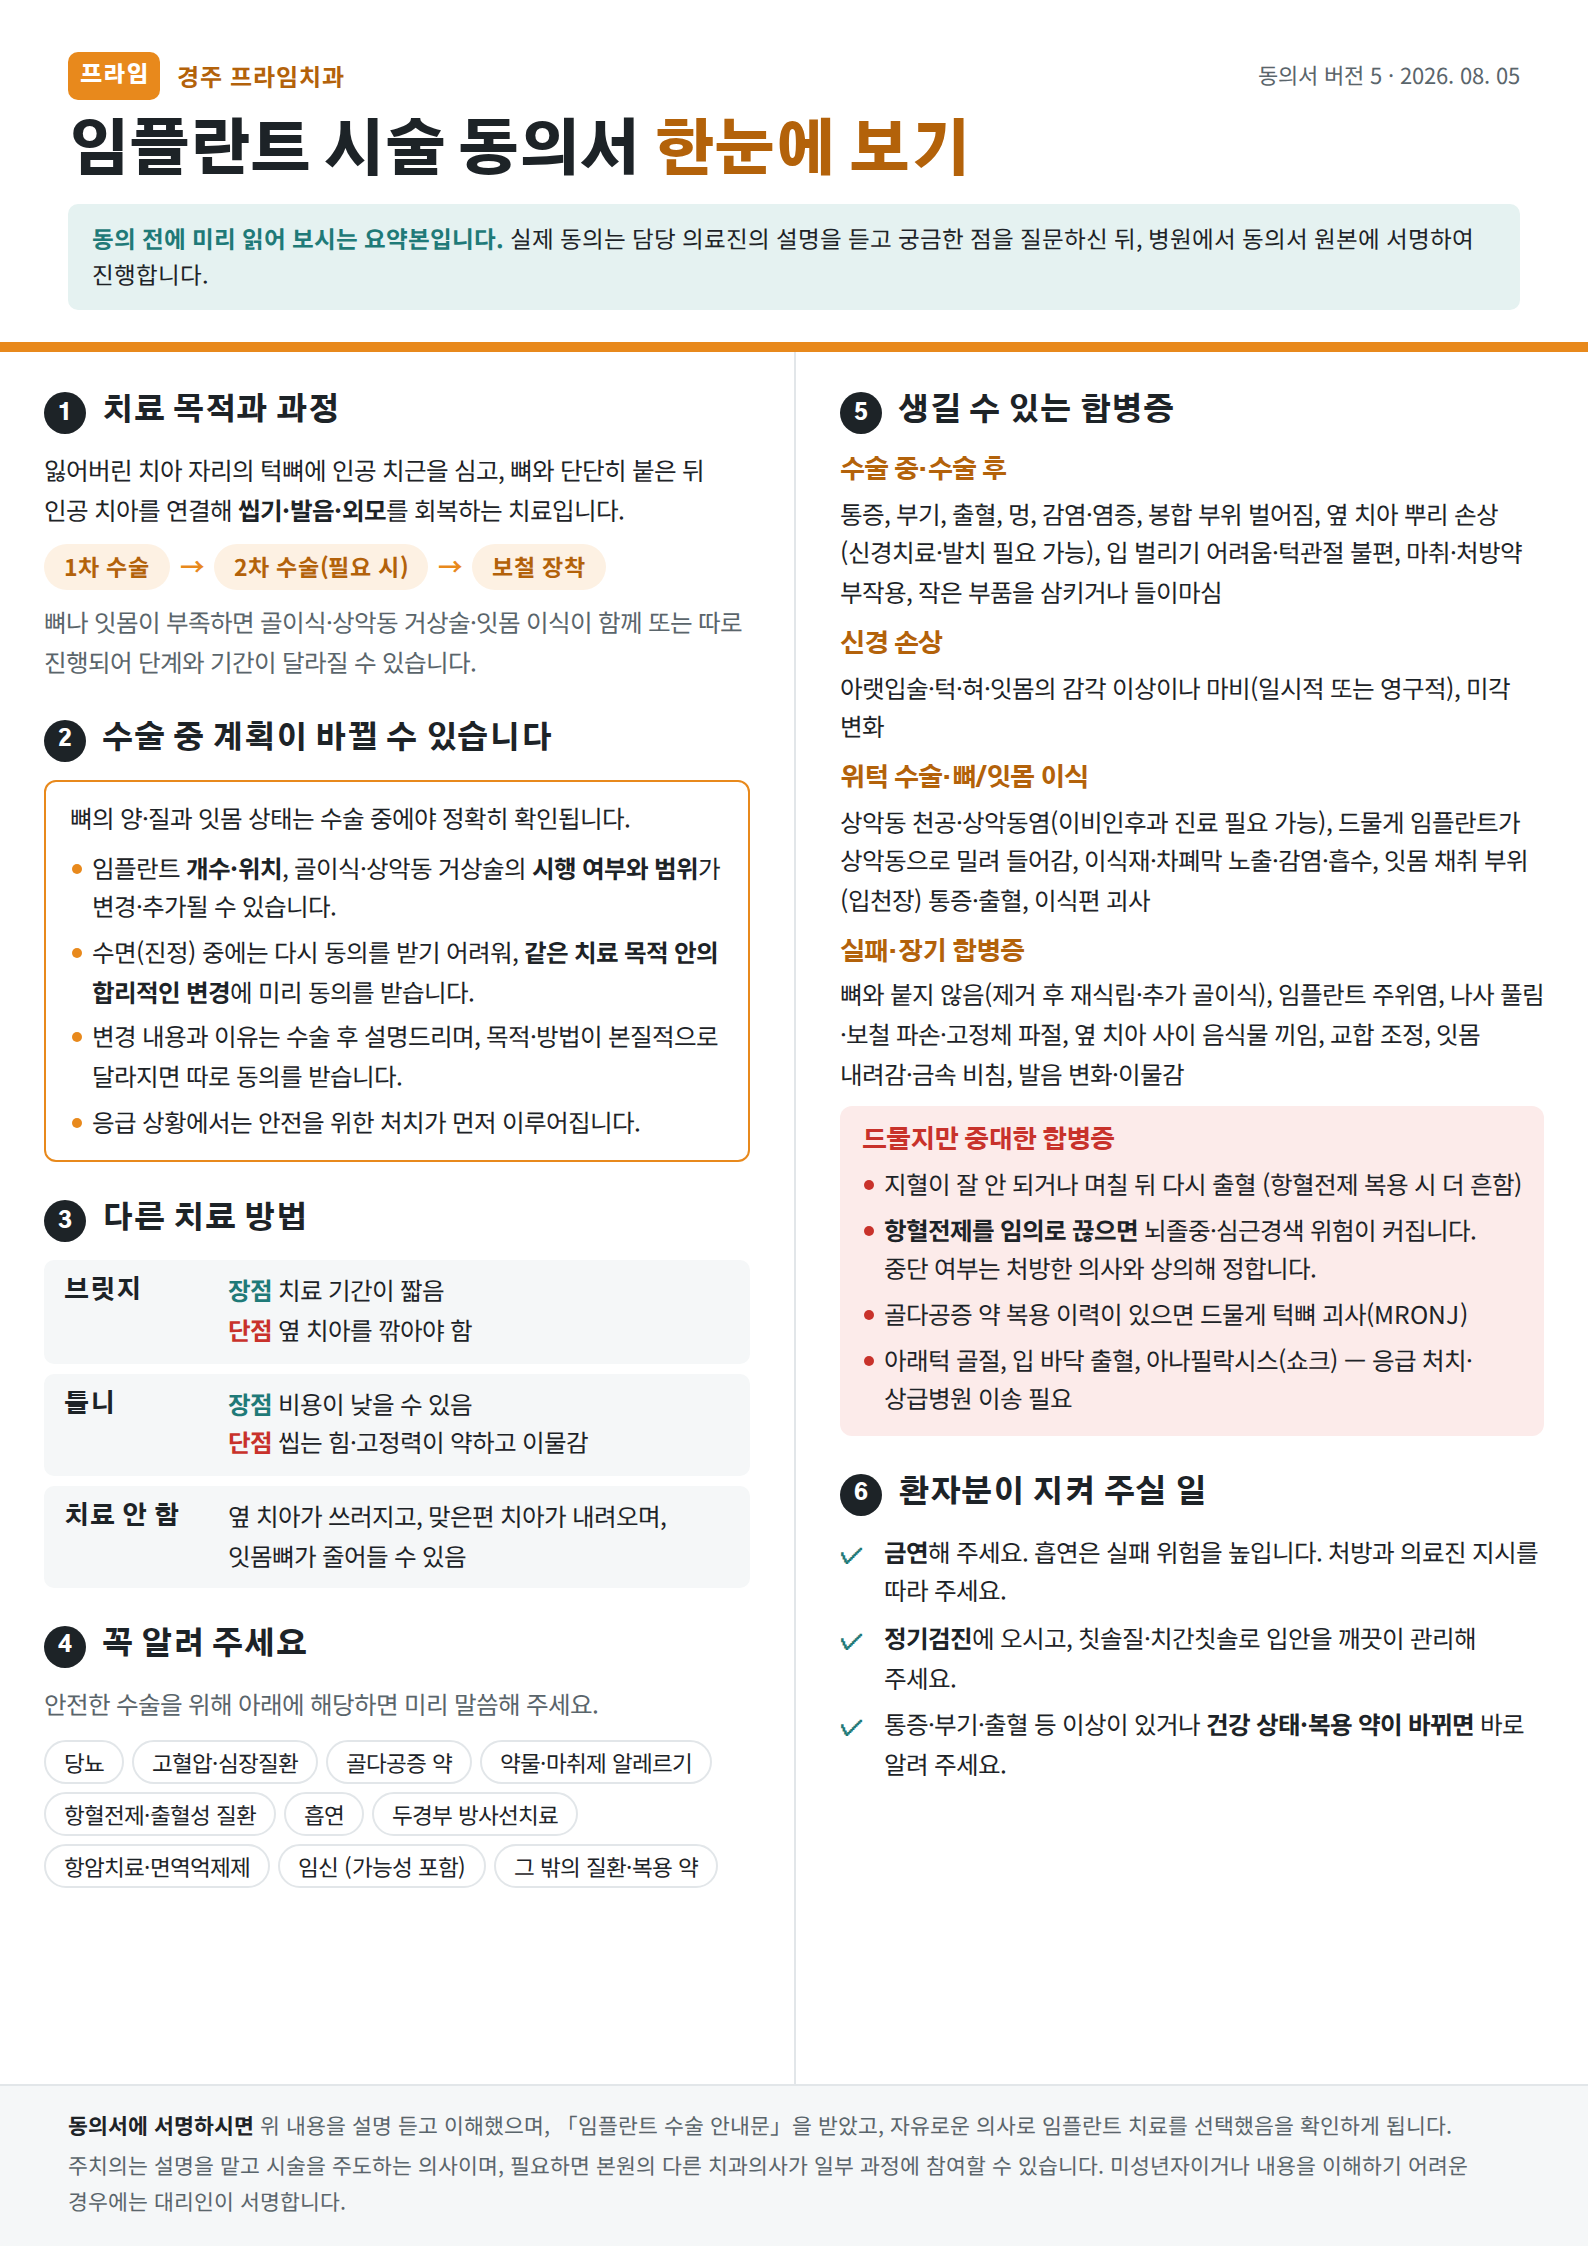
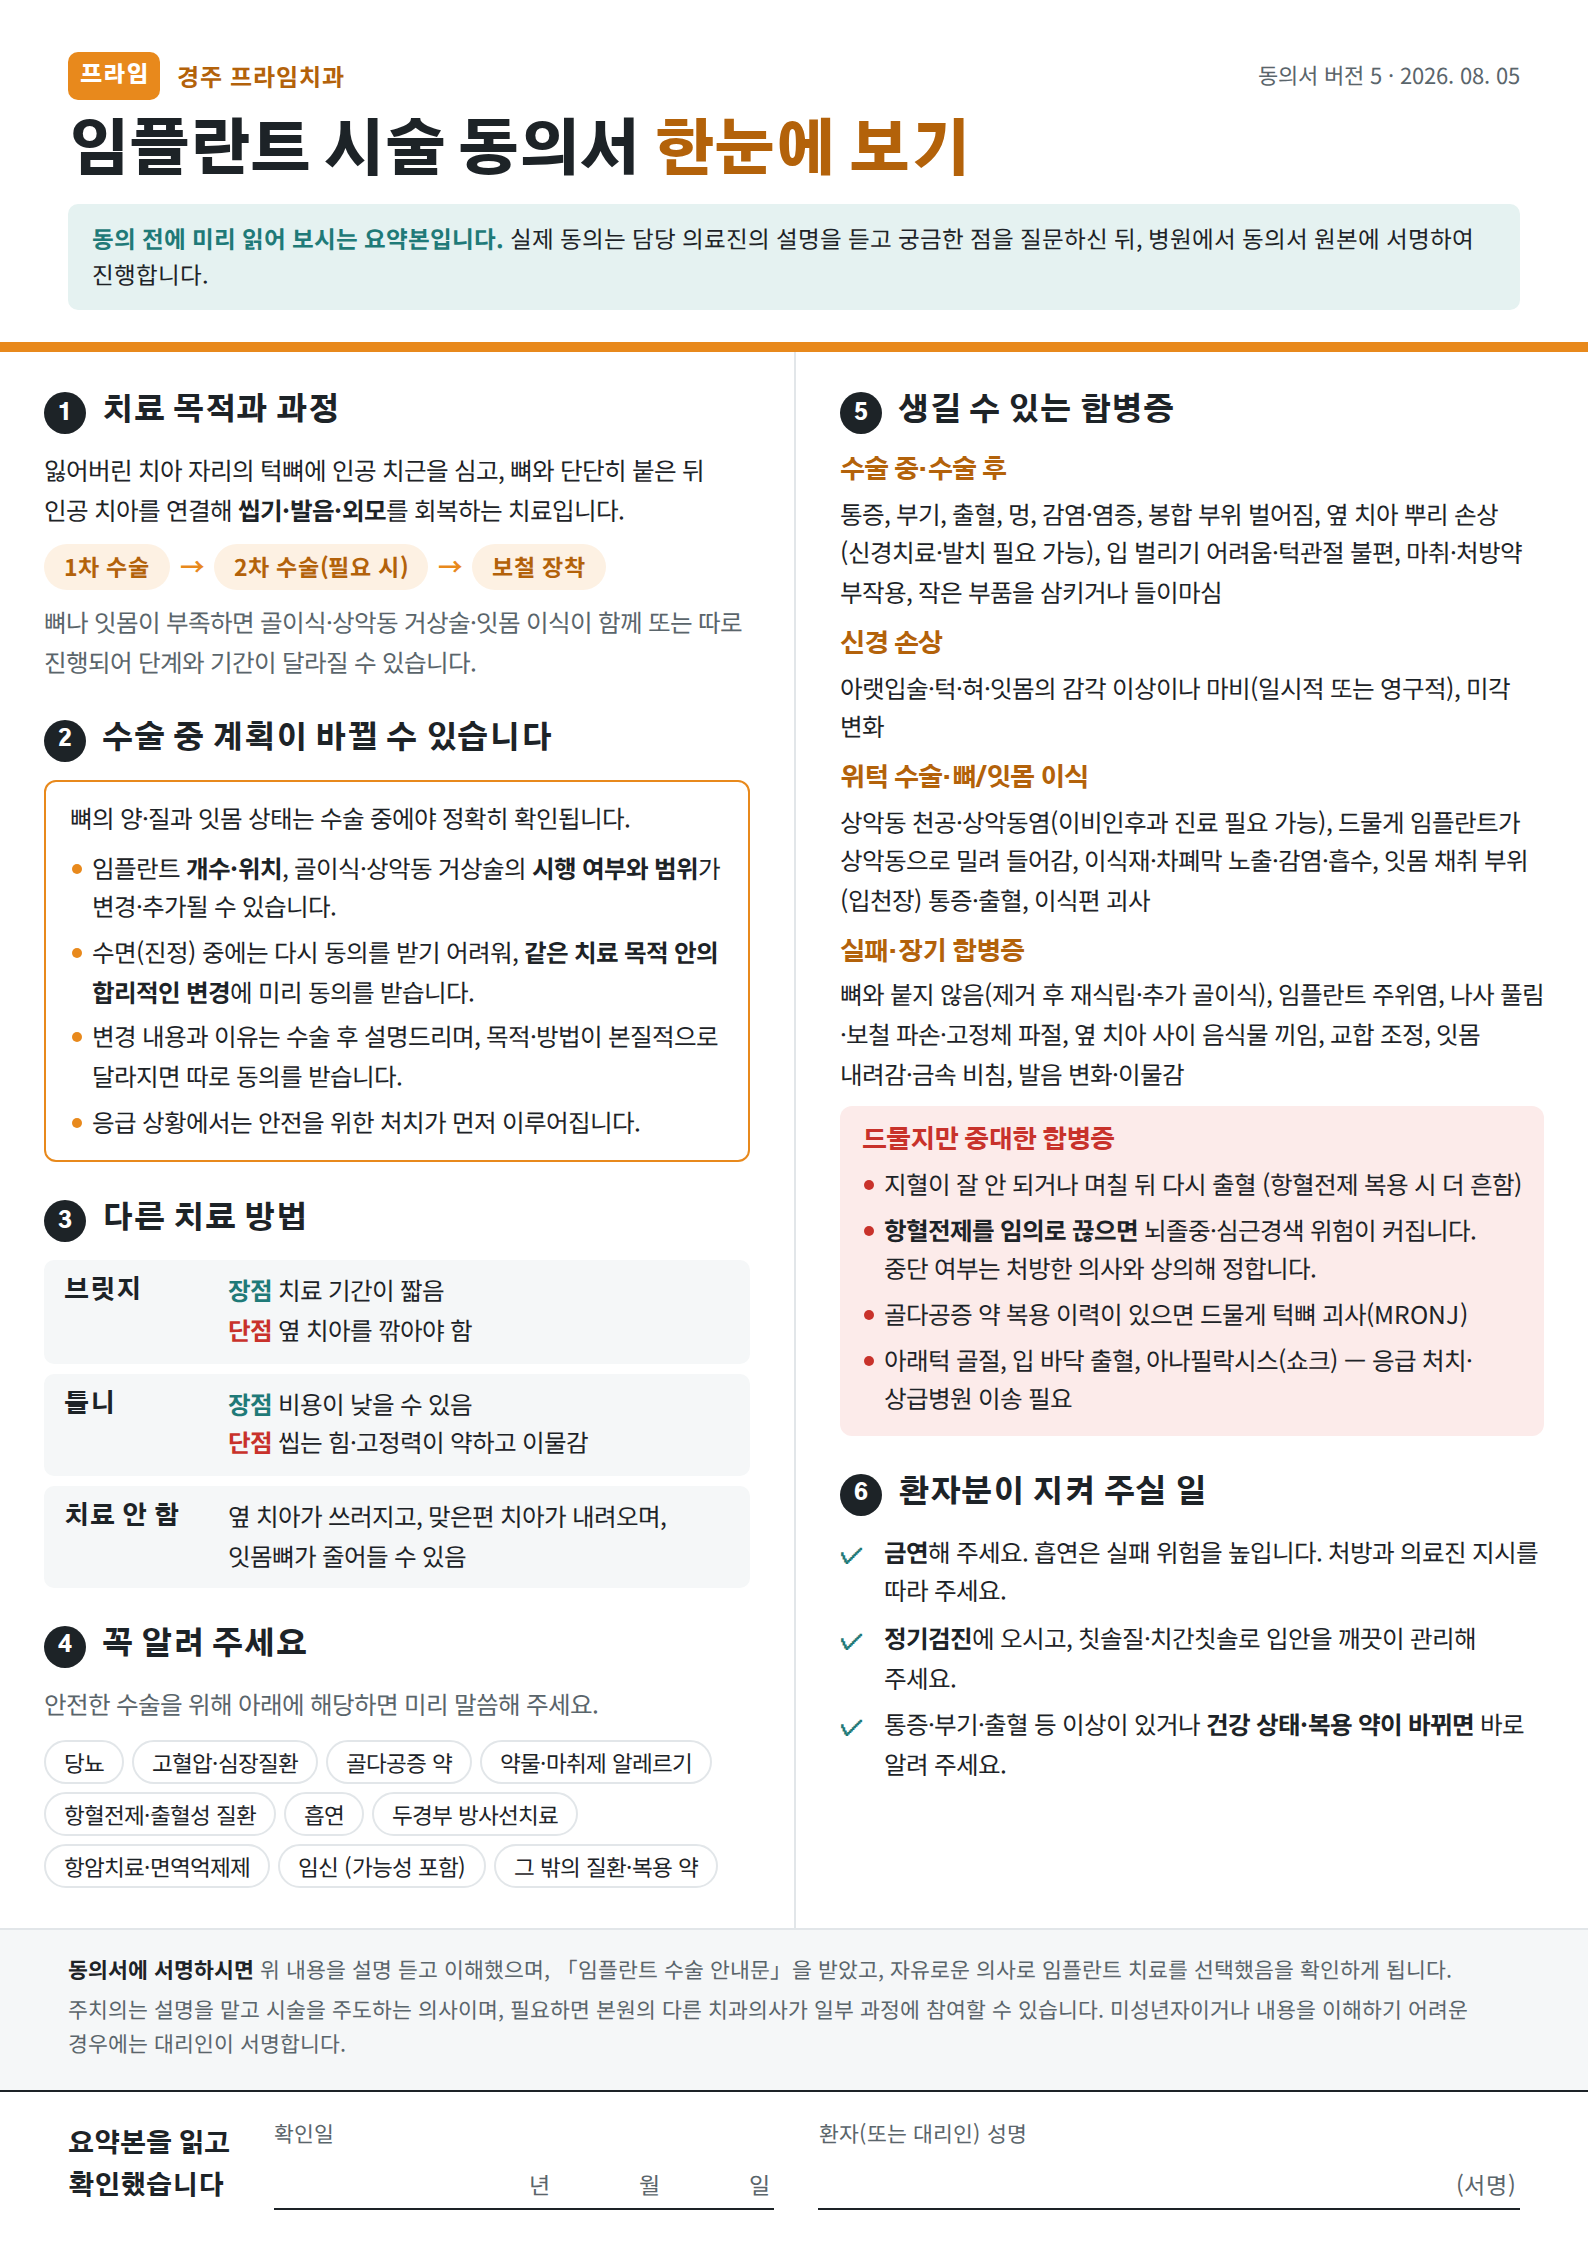
동의서 요약 이미지 하단에 확인 서명란 추가
Claude-Session: https://claude.ai/code/session_01CX56RpDesHuZ84DgHX2H83

Changed region(s): [[0.0309, 0.8727, 0.9257, 0.9973], [0.9257, 0.9662, 0.9565, 0.9973]]

diff --git a/handouts/임플란트_동의서_요약.html b/handouts/임플란트_동의서_요약.html
@@ -87,6 +87,11 @@ h2 { font-size: 15.5px; font-weight: 800; letter-spacing: -.01em; }
 
 .foot { border-top: 1px solid var(--line); background: var(--tint); padding: 11px 34px 14px; display: grid; gap: 3px; font-size: 10.8px; color: var(--muted); }
 .foot b { color: var(--ink); }
+.sign { padding: 12px 34px 18px; border-top: 1.5px solid var(--ink); display: grid; grid-template-columns: auto 1fr 1.4fr; gap: 22px; align-items: end; }
+.sign .lbl { font-family: var(--font-display); font-weight: 800; font-size: 13px; }
+.sign .f { display: grid; gap: 4px; }
+.sign .f span { font-size: 10.8px; color: var(--muted); }
+.sign .f div { border-bottom: 1px solid var(--ink); height: 26px; display: flex; justify-content: flex-end; align-items: flex-end; gap: 22px; padding: 0 2px 3px; font-size: 11.5px; color: var(--muted); }
 </style>
 </head>
 <body>
@@ -186,5 +191,10 @@ h2 { font-size: 15.5px; font-weight: 800; letter-spacing: -.01em; }
   <p><b>동의서에 서명하시면</b> 위 내용을 설명 듣고 이해했으며, 「임플란트 수술 안내문」을 받았고, 자유로운 의사로 임플란트 치료를 선택했음을 확인하게 됩니다.</p>
   <p>주치의는 설명을 맡고 시술을 주도하는 의사이며, 필요하면 본원의 다른 치과의사가 일부 과정에 참여할 수 있습니다. 미성년자이거나 내용을 이해하기 어려운 경우에는 대리인이 서명합니다.</p>
 </footer>
+<section class="sign">
+  <p class="lbl">요약본을 읽고<br>확인했습니다</p>
+  <div class="f"><span>확인일</span><div>년<span></span>월<span></span>일</div></div>
+  <div class="f"><span>환자(또는 대리인) 성명</span><div>(서명)</div></div>
+</section>
 </body>
 </html>
